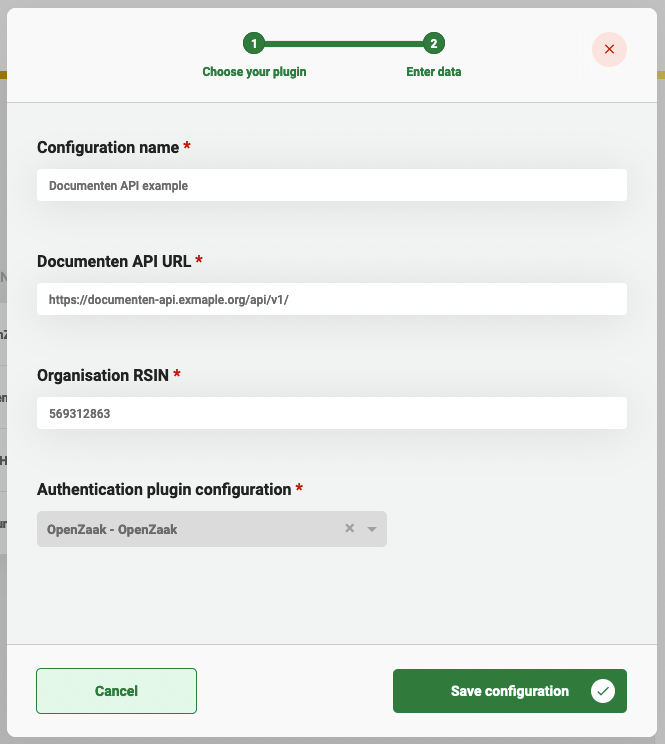
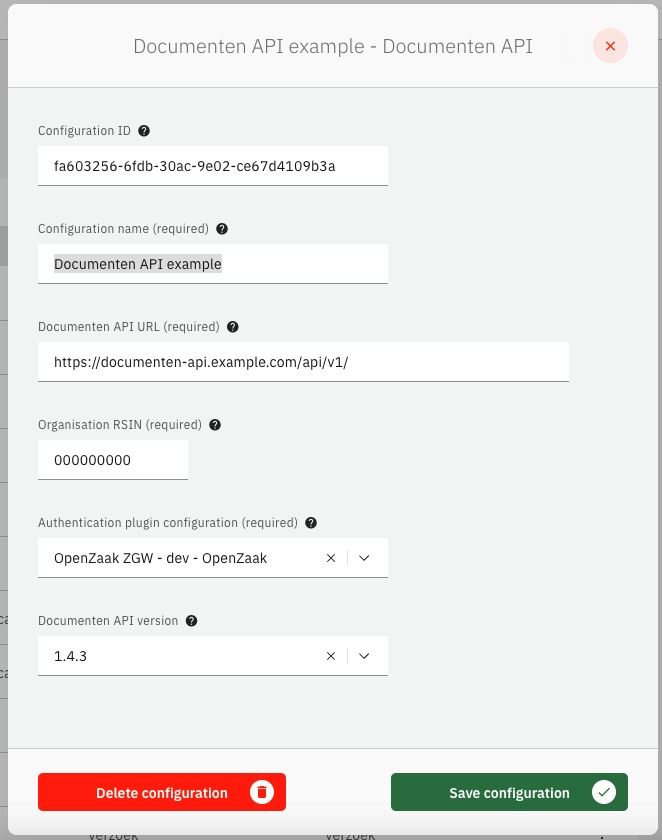
Release notes #104016, #104303, #100137

diff --git a/using-valtimo/plugin/documenten-api/configure-documenten-api-plugin.md b/using-valtimo/plugin/documenten-api/configure-documenten-api-plugin.md
@@ -13,6 +13,7 @@ Instructions on how to add the Documenten API dependency can be found
 [here](/getting-started/modules/zgw/documenten-api.md).
 
 To configure this plugin the following properties have to be entered:
+- **Configuration ID (`id`).** The plugin will be saved under this ID. The ID must be in the format of a UUID.
 - **Documenten API URL (`url`).** Contains the complete base URL of the Documenten API to connect to. This 
 generally includes the path `/api/v1/`.
 - **Organisation RSIN (`bronorganisatie`).** Contains the RSIN of the organisation. The RSIN number (Rechtspersonen en 
@@ -21,7 +22,7 @@ This will be used when storing document to indicate who is responsible for creat
 - **Authentication plugin configuration (`authenticationPluginConfiguration`).** Reference to another plugin configuration that will be used to add 
 authentication to any request performed on the Documenten API. If no option is available in this field a plugin has to 
 be configured that is able to authenticate for the specific application that hosts the Documenten API. (e.g. OpenZaak)
-
+- **Documenten API version (`apiVersion`).** Contains the API version of the Documenten API that is used.
 An example plugin configuration:
 ![example plugin configuration](img/configure-plugin.png)
 

diff --git a/release-notes/major12/12.0.0/valtimo-frontend-libraries.md b/release-notes/major12/12.0.0/valtimo-frontend-libraries.md
@@ -64,6 +64,23 @@ The following features were added:
   Options used by Form.io in the renderer can now be modified by using the following key in your environment file:
   `formioOptions`. Refer to [this page](/reference/environment.md) for more information.
 
+* **Verzoek plugin JSON mapping**
+
+  The verzoek plugin can now be configured so that the entire verzoek data can be copied to a target location. For
+  information on how to configure the verzoek plugin, refer
+  to [this page](/using-valtimo/plugin/verzoek/configure-verzoek-plugin.md).
+
+* **Show readable process errors**
+
+  When a user models and deploys an erroneous BPMN process, the user will now get a readable error message so that
+  he/she know what wrong.
+
+* **Documenten API plugin version**
+
+  The Documenten API plugin can now be configured with the version of the Documenten API that is used. This version is
+  also show on all Case definition management pages that use the Documenten API plugin. For
+  information on how to configure the verzoek plugin, refer
+  to [this page](/using-valtimo/plugin/documenten-api/configure-documenten-api-plugin.md)
 
 ## Bugfixes
 

diff --git a/using-valtimo/plugin/verzoek/configure-verzoek-plugin.md b/using-valtimo/plugin/verzoek/configure-verzoek-plugin.md
@@ -56,7 +56,8 @@ To configure this plugin the following properties have to be entered:
     - **Copy strategy (`copyStrategy`).** This option determines whether the entire verzoek data is included in the Valtimo case, or only
       the defined fields.
         - **Mapping (`mapping`).** Determines which fields of the verzoek data are copied to the Valtimo case or to the process variable.
-            - **Source (`source`).** A jsonpointer that points to a property inside the verzoek data that should be copied.
+            - **Source (`source`).** A jsonpointer that points to a property inside the verzoek data that should be
+              copied. When this field is left empty, the entire source JSON will be copied to the target location.
             - **Target (`target`).** 
               - Starts with a `doc` prefix. A jsonpointer that points to a property inside the Valtimo case where the verzoek data should
                 be pasted.
